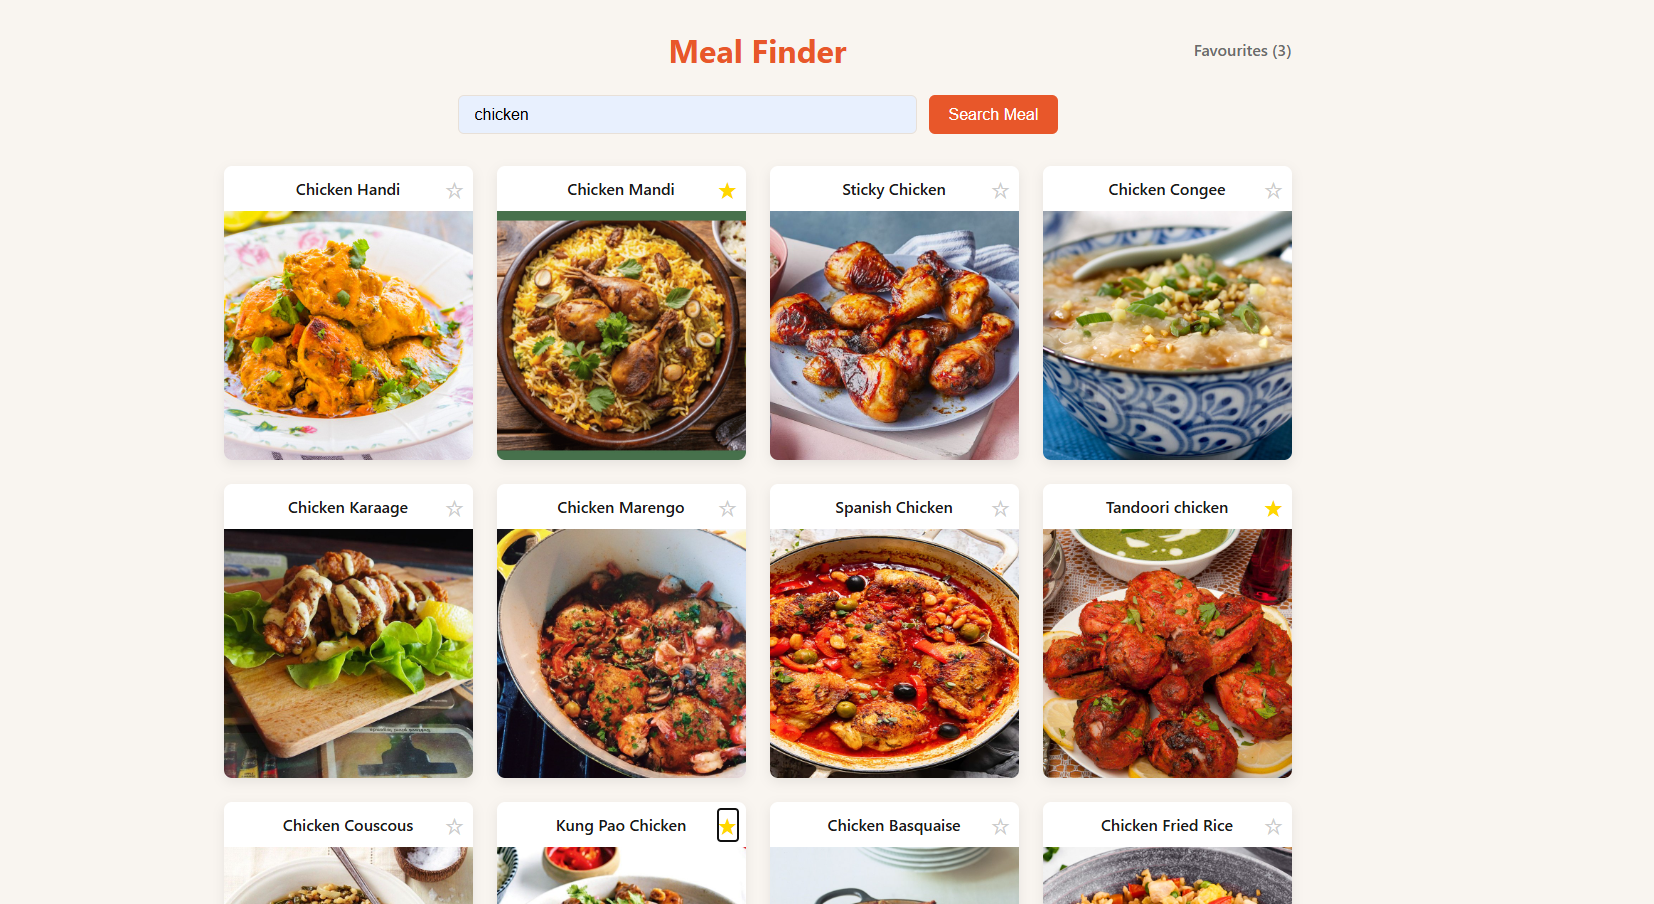
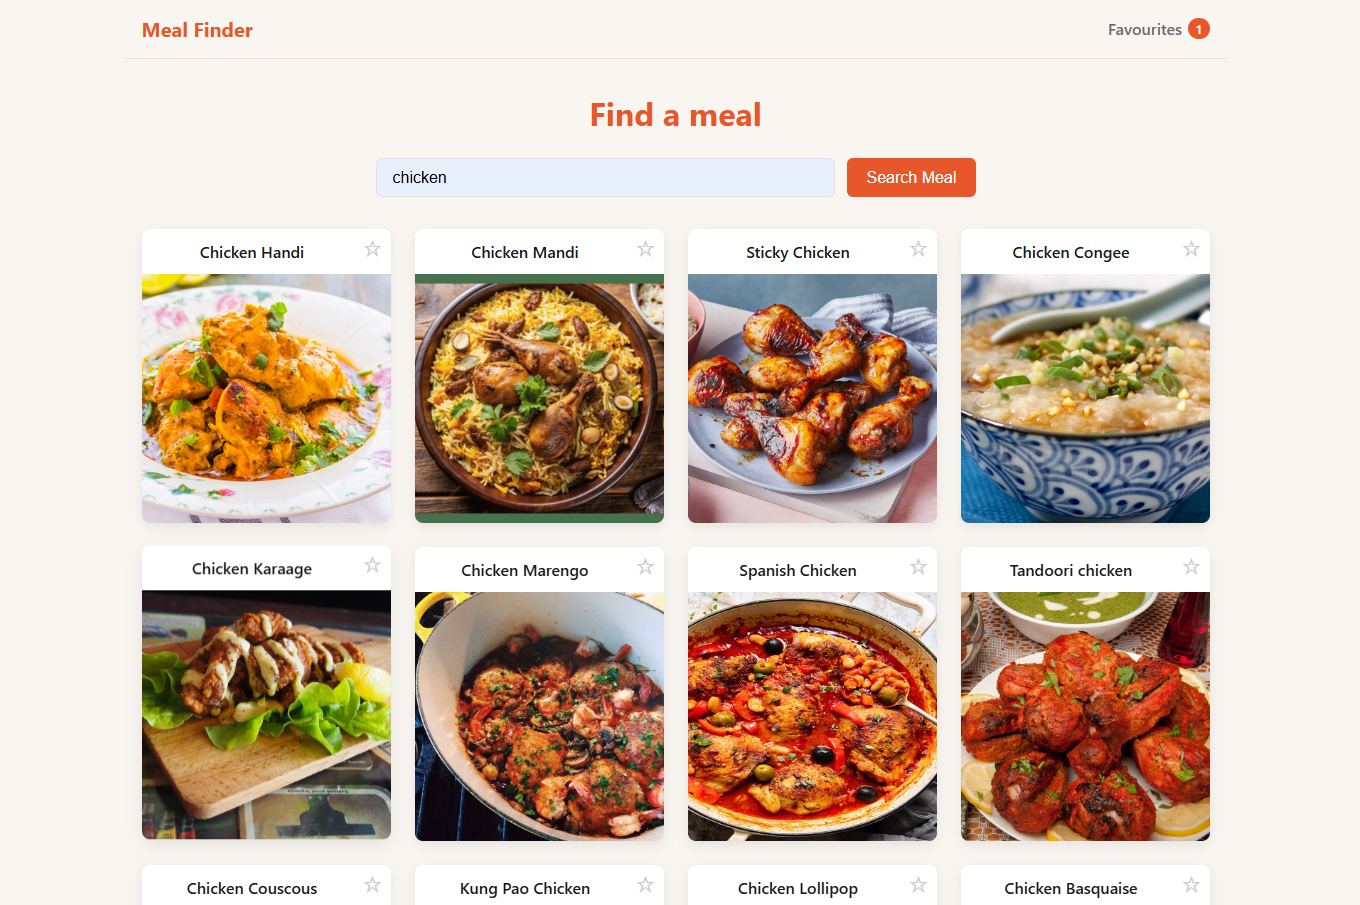
docs(04-meal-finder): add meal detail and favourites screenshots to README

diff --git a/projects/04-meal-finder/README.md b/projects/04-meal-finder/README.md
@@ -24,11 +24,11 @@ https://04mealfinder.netlify.app/
 
 **Meal detail**
 
-*(screenshot — meal detail page — to be added)*
+![Meal detail — recipe image, category and area tags, instructions and the favourite toggle](screenshots/detail.png)
 
 **Favourites**
 
-*(screenshot — favourites page with the category filter — to be added)*
+![Favourites page — saved meals with the category filter above the grid](screenshots/favourites.png)
 
 ---
 
